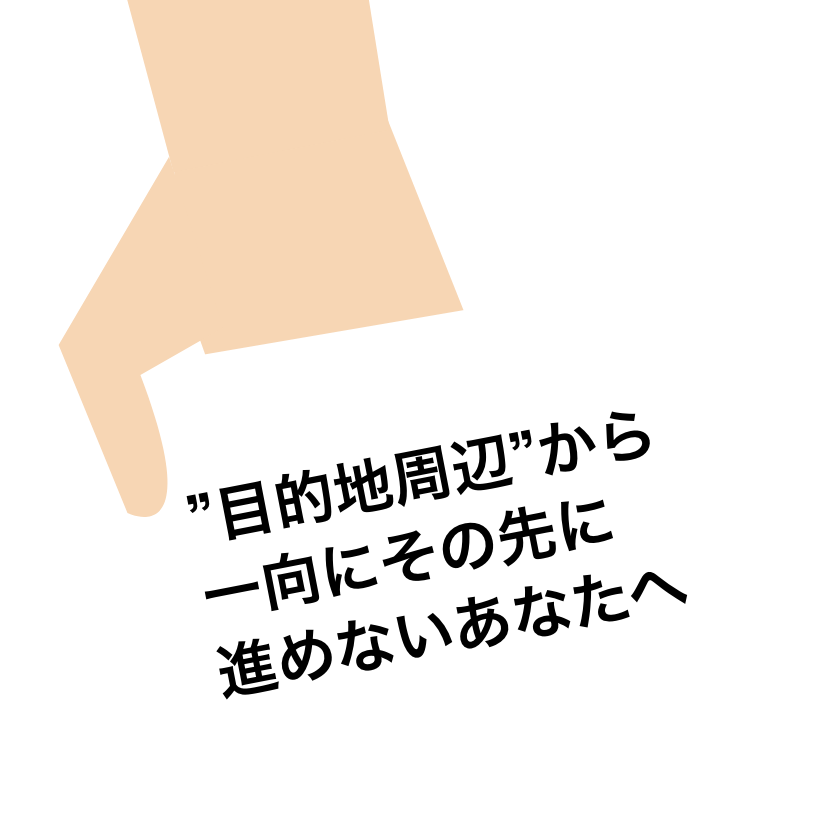
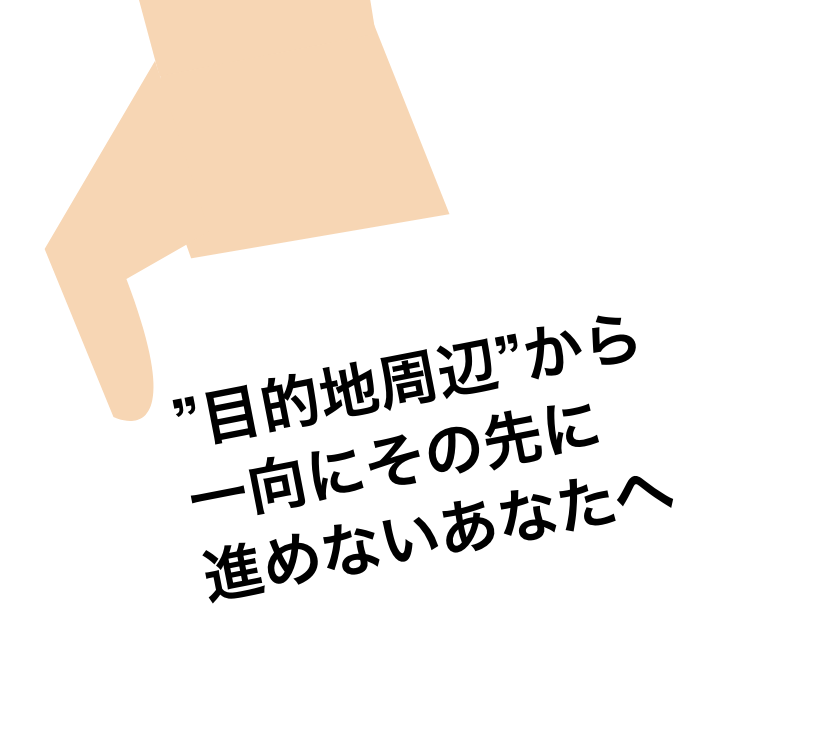
余白の調整

Changed region(s): [[0.0613, 0.0, 0.8578, 0.8587], [0.1532, 0.0307, 0.5821, 0.4907]]

diff --git a/index.html b/index.html
@@ -10,7 +10,7 @@
 		<link rel="shortcut icon" href="img/Gloria_fav.ico">
 	</head>
 	<body>
-		<section class="section js-section" data-section-name="section1">
+		<section id="section1" class="section js-section" data-section-name="section1">
 			<div class="section-content">
 				<div class="content-img animated bounceInDown">
 					<img src="img/parts_01@3x.png" alt="" height="400px">

diff --git a/css/pc_style.css b/css/pc_style.css
@@ -36,7 +36,11 @@
 }
 
 .icon-sm {
-  width: 20px;
+  width: 20px !important;
   margin-right: 10px;
   vertical-align: text-top;
+}
+
+.layout-service .inner {
+	margin-top: 0;
 }

diff --git a/css/style.css b/css/style.css
@@ -78,3 +78,7 @@ h2, h3, p {
 .layout-service .inner {
   margin-top: 25px;
 }
+
+#section1 .section-content {
+  padding-top: 0;
+}
